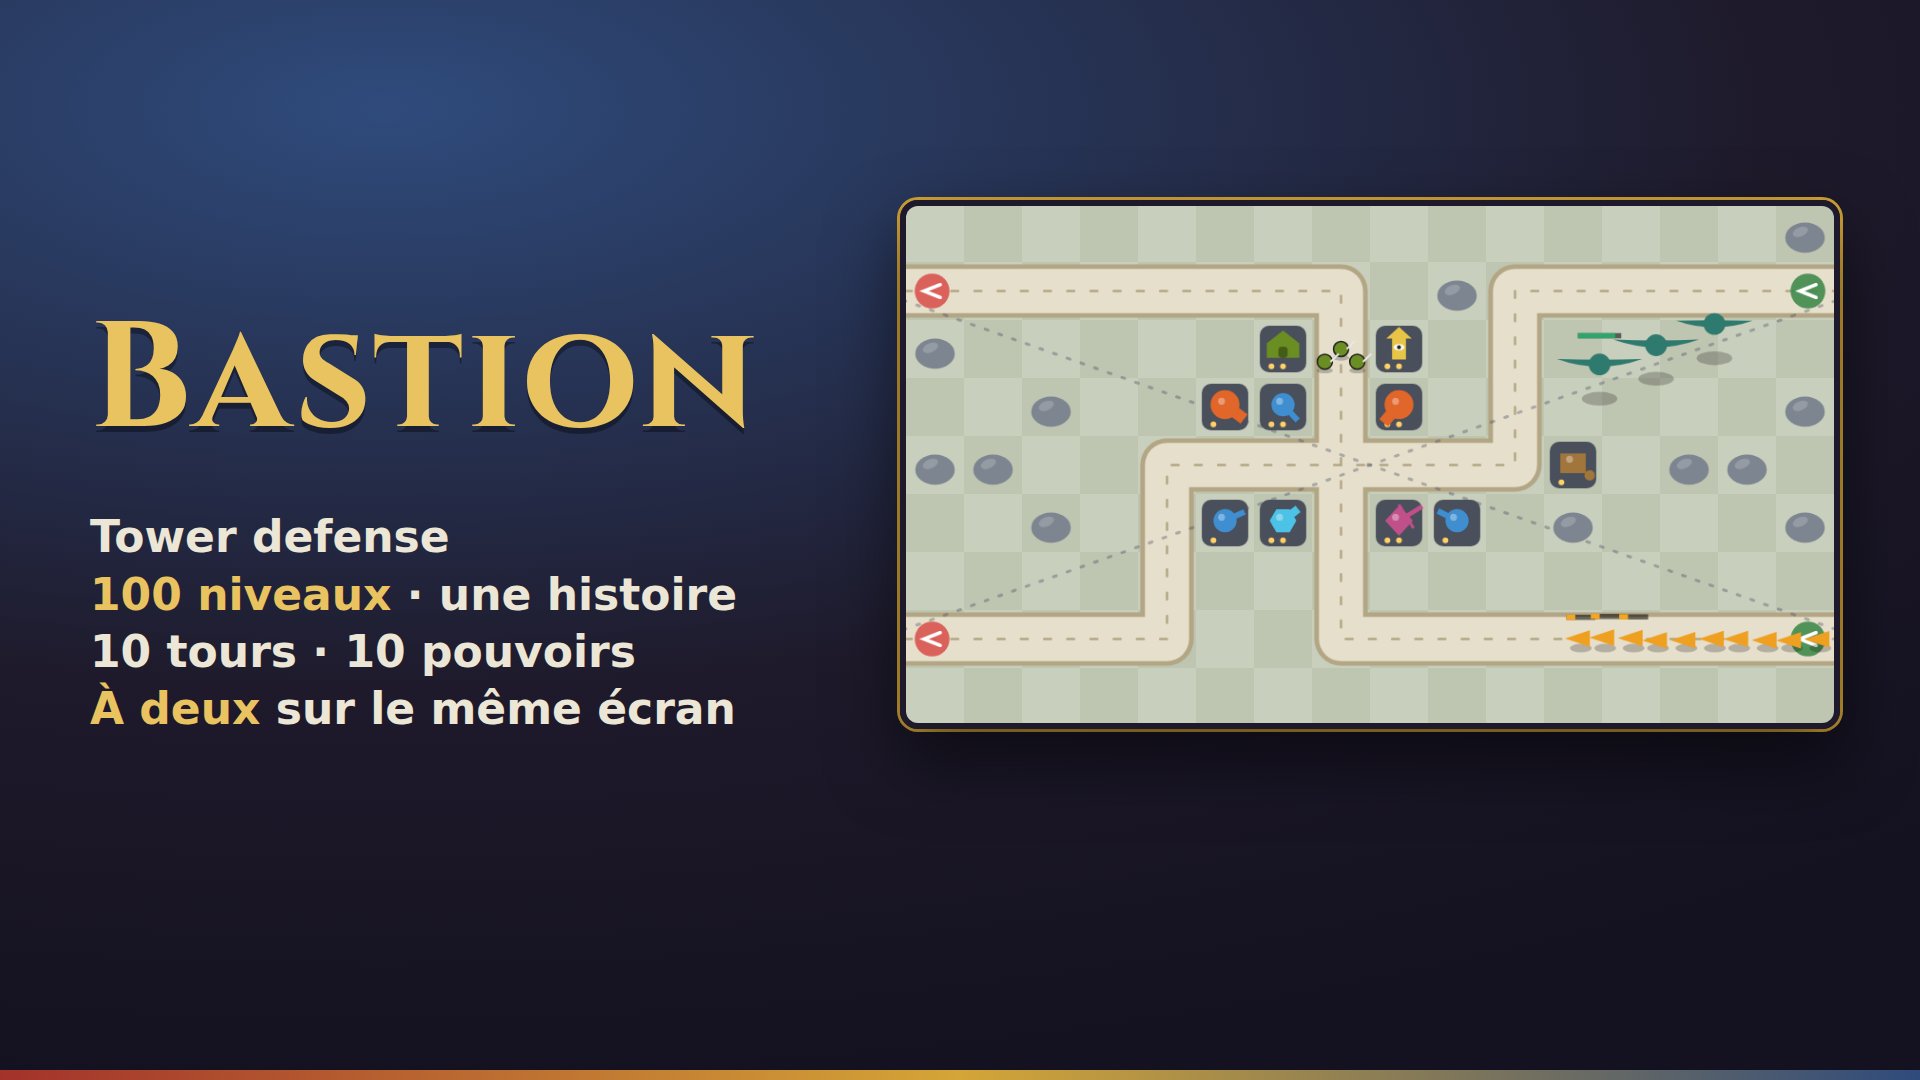
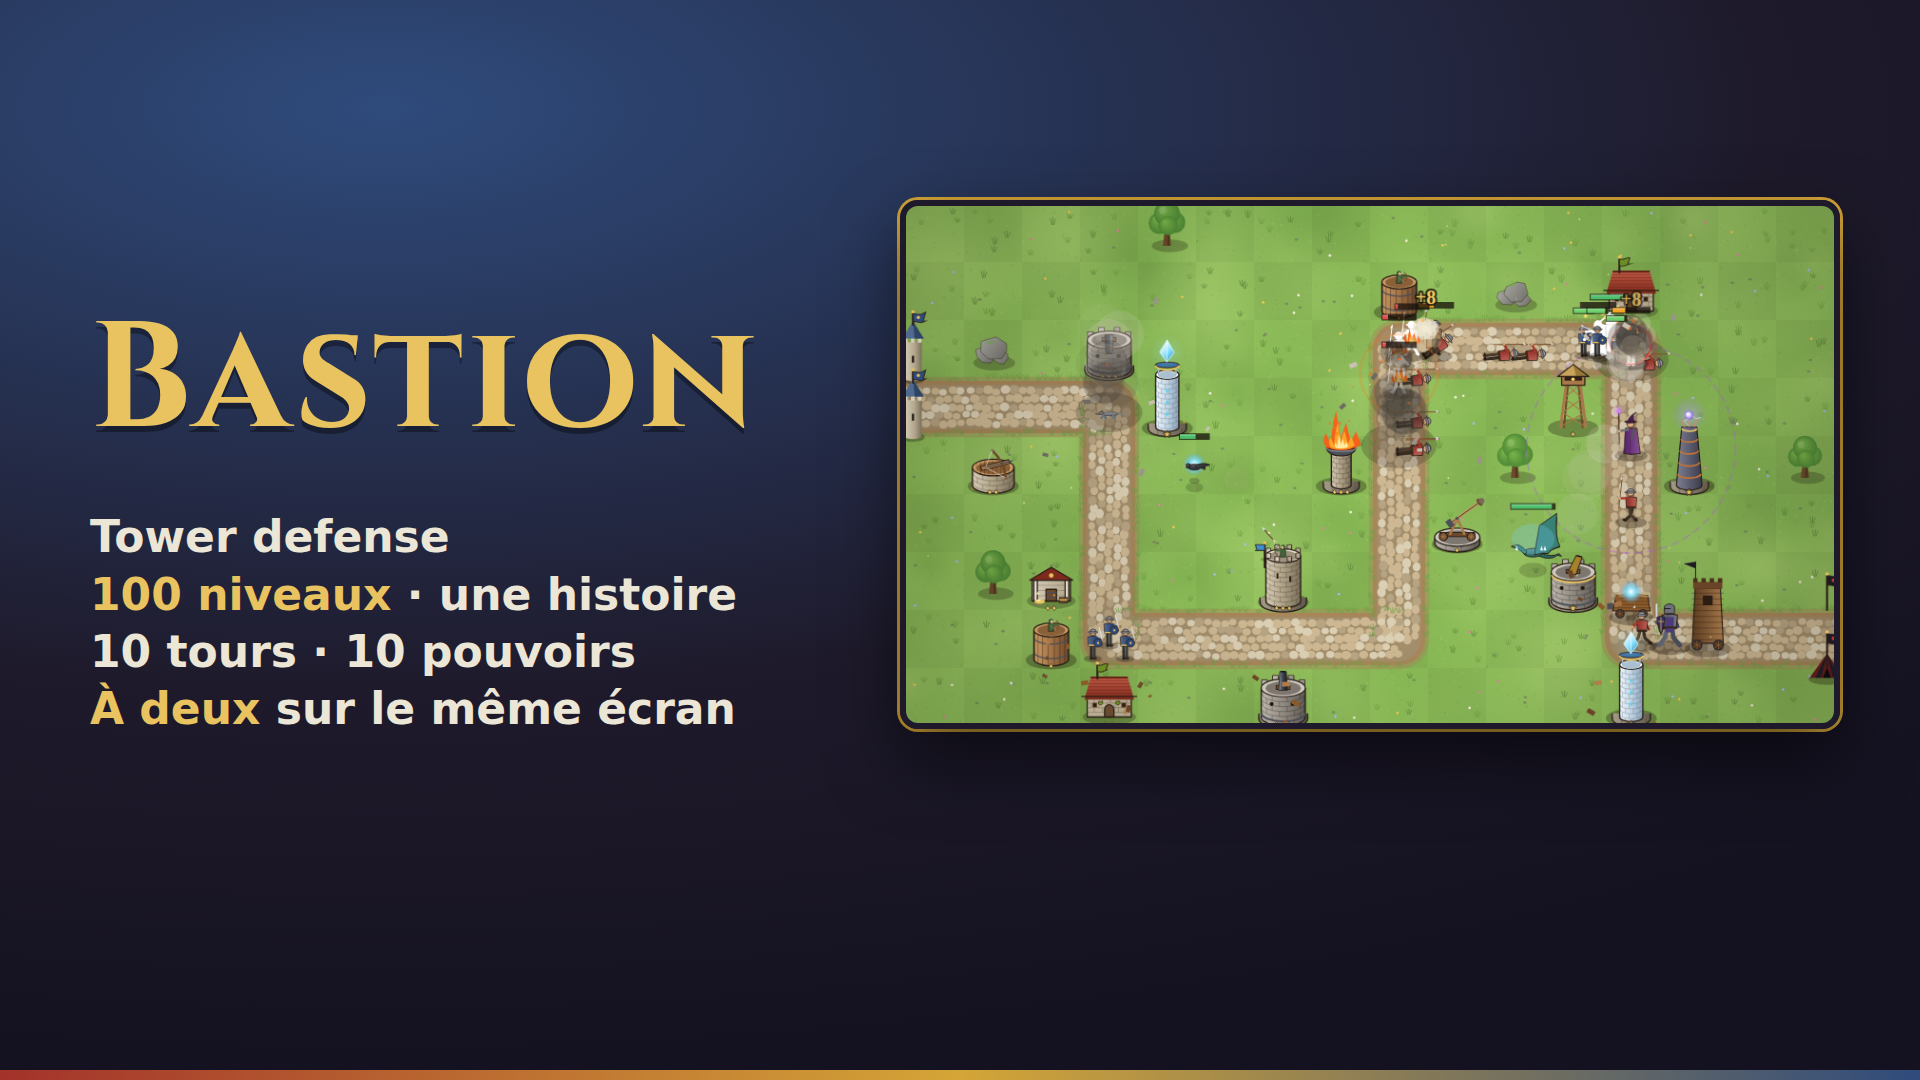
perf: écrans chargés à la demande et panorama d'accueil différé
La page d'accueil ne charge plus le moteur de jeu ni le rendu : les autres
écrans arrivent en arrière-plan quand le navigateur est libre. Images de
présentation refaites avec les nouveaux graphismes (sans sang).

Claude-Session: https://claude.ai/code/session_01D3RbG6jWRHF8YRZXeHQ6L3

Changed region(s): [[0.4688, 0.1833, 0.9688, 0.6722]]

diff --git a/src/App.vue b/src/App.vue
@@ -61,23 +61,37 @@
 /**
  * @file Root component: header (language, theme), current screen, story, toasts.
  */
+import { defineAsyncComponent } from 'vue';
 import AppIcon from './components/AppIcon.vue';
 import HomeScreen from './components/HomeScreen.vue';
-import CampaignScreen from './components/CampaignScreen.vue';
-import GameScreen from './components/GameScreen.vue';
-import WorkshopScreen from './components/WorkshopScreen.vue';
-import AchievementsScreen from './components/AchievementsScreen.vue';
-import ChronicleScreen from './components/ChronicleScreen.vue';
-import SettingsScreen from './components/SettingsScreen.vue';
-import MultiplayerScreen from './components/MultiplayerScreen.vue';
-import DuelScreen from './components/DuelScreen.vue';
-import StoryPanel from './components/StoryPanel.vue';
 import ToastStack from './components/ToastStack.vue';
+
+// Every screen but the home one is loaded on demand: the first page stays light
+// (fast on phones), the rest is fetched in the background right after.
+const screens = {
+  CampaignScreen: () => import('./components/CampaignScreen.vue'),
+  GameScreen: () => import('./components/GameScreen.vue'),
+  WorkshopScreen: () => import('./components/WorkshopScreen.vue'),
+  AchievementsScreen: () => import('./components/AchievementsScreen.vue'),
+  ChronicleScreen: () => import('./components/ChronicleScreen.vue'),
+  SettingsScreen: () => import('./components/SettingsScreen.vue'),
+  MultiplayerScreen: () => import('./components/MultiplayerScreen.vue'),
+  DuelScreen: () => import('./components/DuelScreen.vue'),
+  StoryPanel: () => import('./components/StoryPanel.vue'),
+};
+const lazy = Object.fromEntries(Object.entries(screens).map(([name, load]) => [name, defineAsyncComponent(load)]));
+
+/** Warms up the other screens once the browser is idle. */
+function prefetchScreens() {
+  const run = () => Object.values(screens).forEach((load) => load().catch(() => {}));
+  if (typeof requestIdleCallback === 'function') requestIdleCallback(run, { timeout: 4000 });
+  else setTimeout(run, 2500);
+}
 import { services } from './services/index.js';
 
 export default {
   name: 'App',
-  components: { AppIcon, HomeScreen, CampaignScreen, GameScreen, WorkshopScreen, AchievementsScreen, ChronicleScreen, SettingsScreen, MultiplayerScreen, DuelScreen, StoryPanel, ToastStack },
+  components: { AppIcon, HomeScreen, ToastStack, ...lazy },
   computed: {
     languages() {
       return services.i18n.available;
@@ -98,6 +112,9 @@ export default {
         document.documentElement.classList.toggle('in-game', v);
       },
     },
+  },
+  mounted() {
+    prefetchScreens();
   },
   methods: {
     setLocale(code) {

diff --git a/src/components/HomeScreen.vue b/src/components/HomeScreen.vue
@@ -62,8 +62,7 @@
  */
 import AppIcon from './AppIcon.vue';
 import { services } from '../services/index.js';
-import { LevelCatalog } from '../core/index.js';
-import { HeroScene } from '../core/rendering/HeroScene.js';
+import { LevelCatalog } from '../core/config/LevelCatalog.js';
 
 export default {
   name: 'HomeScreen',
@@ -117,9 +116,12 @@ export default {
     this.observer?.disconnect();
   },
   methods: {
-    startHero() {
+    async startHero() {
       const canvas = this.$refs.hero;
       if (!canvas || !canvas.getContext) return;
+      // Loaded separately: the panorama never delays the first paint.
+      const { HeroScene } = await import('../core/rendering/HeroScene.js');
+      if (!this.$refs.hero) return;
       const scene = new HeroScene(canvas);
       scene.night = this.$store.theme === 'dark';
       scene.reduced = typeof matchMedia === 'function' && matchMedia('(prefers-reduced-motion: reduce)').matches;
